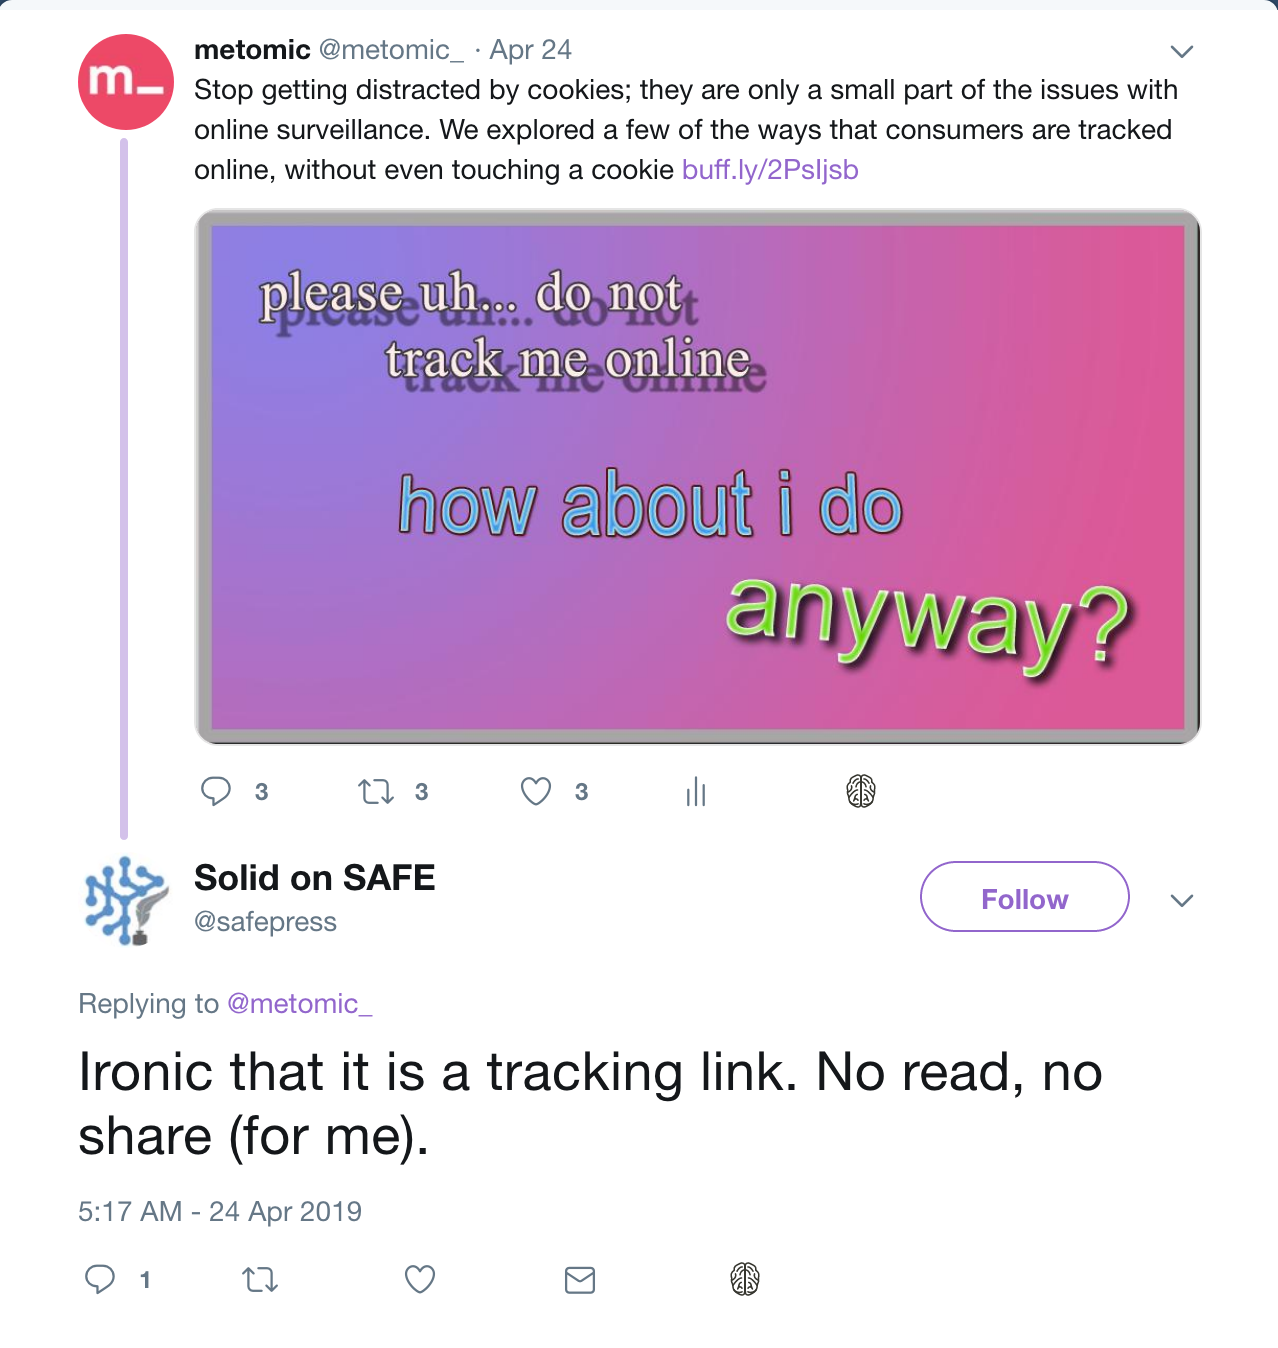
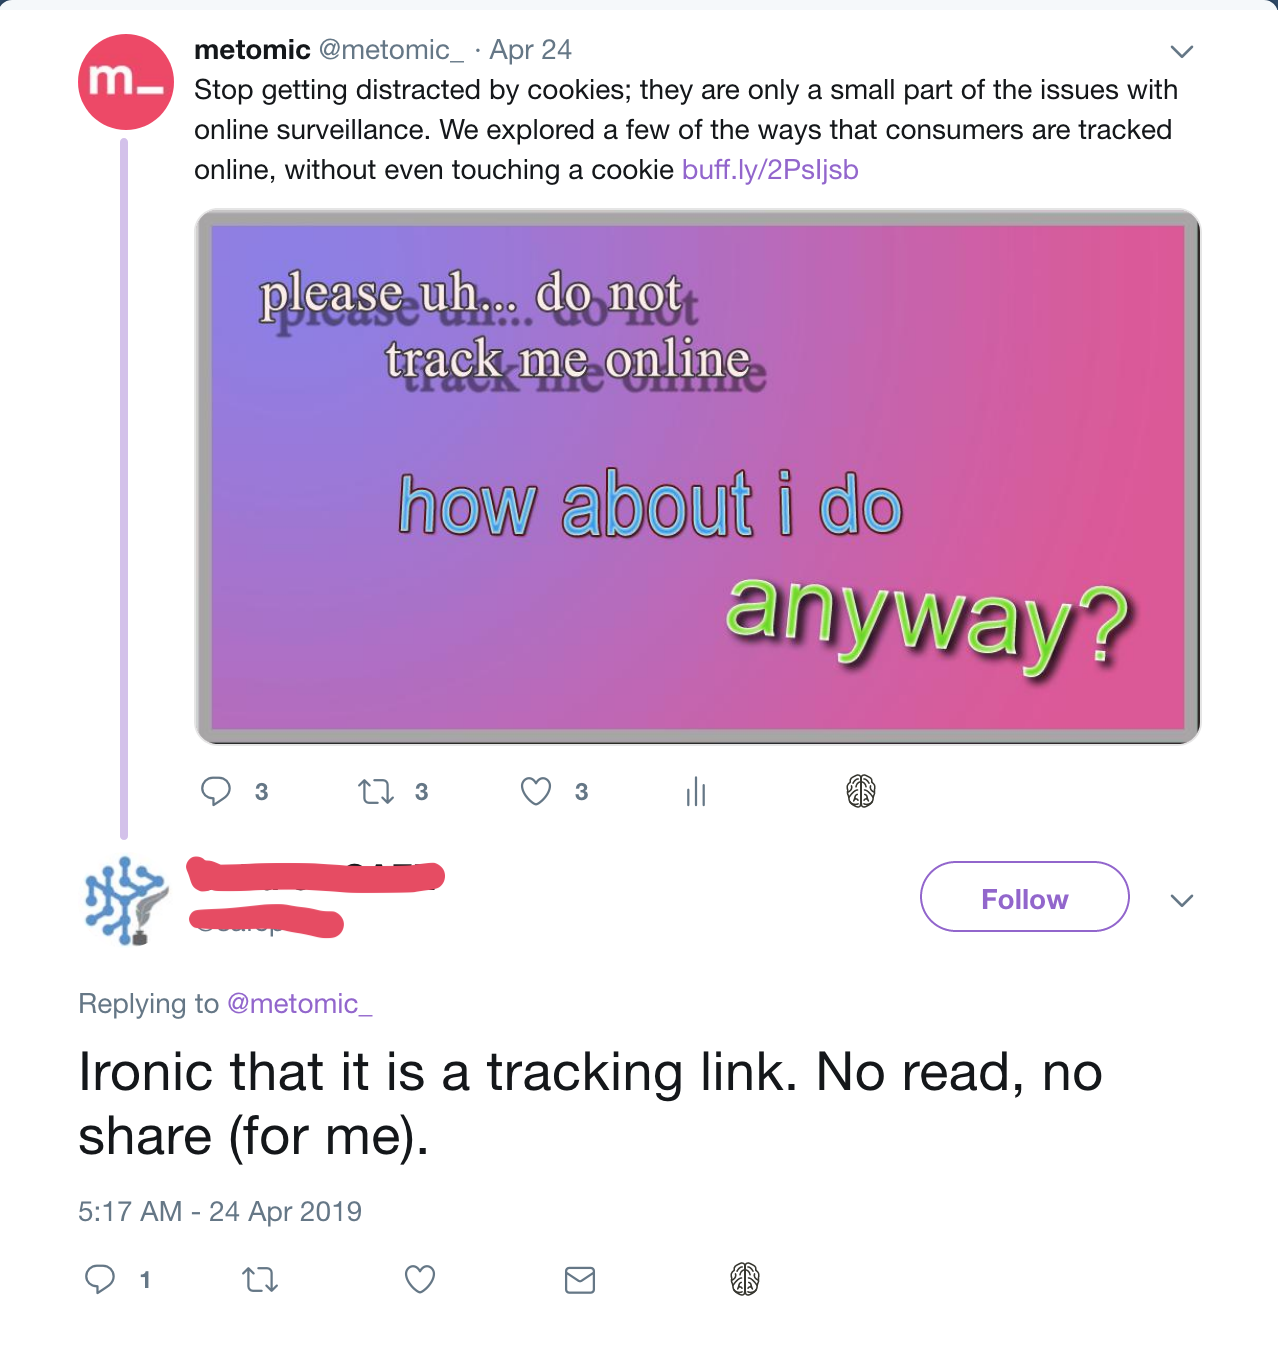
burp

Changed region(s): [[0.1221, 0.6231, 0.3662, 0.7166]]

diff --git a/_posts/2019-06-25-data-ethical-business.md b/_posts/2019-06-25-data-ethical-business.md
@@ -23,7 +23,7 @@ The collective mood in the office after seeing this tweet was sort of like, "god
 
 ###### Everything is filthy with the thick, dark, muck of bad data practices
 
-We responded with an unshortened link, in it's purest form, as link-god always intended, so that @safepress could read the article. That day we learned that you can always depend on the help of Twitter strangers. We also learned that **everything is filthy** with the thick, dark, muck of bad data practices. 
+We responded with an unshortened link, in it's purest form, as link-god always intended, so that they could read the article. That day we learned that you can always depend on the help of Twitter strangers. We also learned that **everything is filthy** with the thick, dark, muck of bad data practices. 
 
 A link shortener is such a basic, every day thing — we searched around for any that don't track you when you click and struggled finding anything (if anyone knows of a clean link shortener out there, please tell us on Twitter @metomic_). So, what do we do? Well for a while we just didn't shorten links. But, luckily we're a company full of **cool software developers** who love hacking around with side projects, so we went and made our own link shortener at [priv.sh](http://priv.sh) 😏
 
